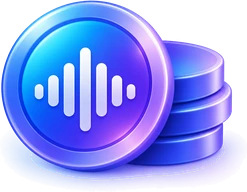
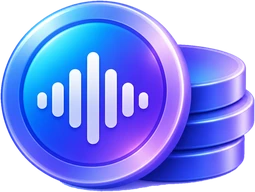
Credits coin: no glow under it on dark pages; easier-to-read dashboard text
The coin image is cut out again without its soft shadow, and the purple
glow drawn under it is gone, so dark pages no longer show a band under the
coin. The dashboard's small text (minutes chip, card hints, labels, editor
footer) is a step bigger, and on phones the character bar and the credits
card each take the full width.

Claude-Session: https://claude.ai/code/session_01DjXPhue42B22oo1RDCfTRS

diff --git a/resources/views/dashboard.blade.php b/resources/views/dashboard.blade.php
@@ -2004,12 +2004,12 @@
         linear-gradient(135deg, color-mix(in oklab, var(--a, #6A45F2) 9%, var(--surface)), var(--surface) 65%);
     }
     .usage-hero-head { display: flex; align-items: center; gap: .7rem; }
-    .usage-hero-coin { font-size: 2.3rem; filter: drop-shadow(0 5px 10px color-mix(in oklab, #6A45F2 25%, transparent)); }
-    .usage-hero-label { display: block; font-size: .85rem; font-weight: 700; color: var(--text); }
-    .usage-hero-plan { display: block; font-size: .78rem; color: var(--muted); }
+    .usage-hero-coin { font-size: 2.3rem; }
+    .usage-hero-label { display: block; font-size: .95rem; font-weight: 700; color: var(--text); }
+    .usage-hero-plan { display: block; font-size: .86rem; color: var(--muted); }
     .usage-hero-value { display: flex; align-items: baseline; flex-wrap: wrap; gap: .55rem; margin: .9rem 0 .7rem; }
     .usage-hero-value strong { font-size: clamp(2rem, 4vw, 2.7rem); line-height: 1; font-weight: 800; letter-spacing: -.02em; font-variant-numeric: tabular-nums; color: var(--text); }
-    .usage-hero-value span { color: var(--muted); font-size: .92rem; }
+    .usage-hero-value span { color: var(--muted); font-size: 1rem; }
     .usage-hero .meter-track { height: 10px; }
     /* Repeats the big number, so it is kept for screen readers only. */
     .usage-hero-caption { position: absolute; width: 1px; height: 1px; padding: 0; margin: -1px; overflow: hidden; clip: rect(0 0 0 0); white-space: nowrap; border: 0; }
@@ -2020,7 +2020,7 @@
       padding: .32rem .7rem; border-radius: 999px;
       background: color-mix(in oklab, var(--surface2) 70%, var(--surface));
       border: 1px solid color-mix(in oklab, var(--line) 80%, transparent);
-      font-size: .78rem; color: var(--text);
+      font-size: .88rem; color: var(--text);
     }
     .usage-chip svg { width: 14px; height: 14px; fill: none; stroke: var(--a, #6A45F2); stroke-width: 2; stroke-linecap: round; }
     .usage-ring {
@@ -2037,7 +2037,7 @@
       box-shadow: inset 0 0 0 1px color-mix(in oklab, var(--line) 70%, transparent);
     }
     .usage-ring-inner b { font-size: 1.55rem; font-weight: 800; font-variant-numeric: tabular-nums; color: var(--text); }
-    .usage-ring-inner span { font-size: .75rem; color: var(--muted); }
+    .usage-ring-inner span { font-size: .82rem; color: var(--muted); }
     .usage-tiles { display: grid; grid-template-columns: repeat(3, minmax(0, 1fr)); gap: .9rem; margin-top: .9rem; }
     .usage-tile {
       display: flex; flex-direction: column; gap: .45rem;
@@ -2046,7 +2046,7 @@
       background: var(--surface);
     }
     .usage-tile-head { display: flex; align-items: center; gap: .55rem; }
-    .usage-tile-head small { font-size: .82rem; font-weight: 600; color: var(--muted); }
+    .usage-tile-head small { font-size: .92rem; font-weight: 600; color: var(--muted); }
     .usage-tile-icon {
       display: inline-grid; place-items: center; width: 30px; height: 30px; border-radius: 9px;
       background: color-mix(in oklab, var(--a, #6A45F2) 12%, var(--surface));
@@ -2056,17 +2056,17 @@
     .usage-tile-icon.gold .credit-icon { font-size: 1.05rem; }
     .usage-tile > b { font-size: 1.65rem; font-weight: 800; line-height: 1.1; font-variant-numeric: tabular-nums; color: var(--text); }
     .usage-tile .meter-track { height: 6px; }
-    .usage-tile-foot { color: var(--muted); font-size: .76rem; line-height: 1.45; }
+    .usage-tile-foot { color: var(--muted); font-size: .87rem; line-height: 1.45; }
     .usage-health {
       display: flex; align-items: center; justify-content: space-between; flex-wrap: wrap; gap: .8rem;
       margin-top: .9rem; padding: .85rem 1.15rem; border-radius: 16px;
       border: 1px solid color-mix(in oklab, var(--line) 85%, transparent);
       background: color-mix(in oklab, var(--surface2) 40%, var(--surface));
     }
-    .usage-health-title { font-size: .85rem; font-weight: 700; color: var(--text); }
+    .usage-health-title { font-size: .95rem; font-weight: 700; color: var(--text); }
     .usage-health-row { display: flex; flex-wrap: wrap; gap: 1.4rem; }
     .usage-health-item { display: inline-flex; align-items: center; gap: .45rem; }
-    .usage-health-item small { color: var(--muted); font-size: .8rem; }
+    .usage-health-item small { color: var(--muted); font-size: .9rem; }
     .usage-health-item b { font-variant-numeric: tabular-nums; color: var(--text); }
     .usage-health .dot { width: 8px; height: 8px; border-radius: 50%; display: inline-block; }
     .usage-health .dot.processing { background: #f59e0b; box-shadow: 0 0 0 3px color-mix(in oklab, #f59e0b 22%, transparent); }
@@ -2074,9 +2074,13 @@
     .usage-health .dot.failed { background: #ef4444; box-shadow: 0 0 0 3px color-mix(in oklab, #ef4444 22%, transparent); }
     @media (max-width: 760px) {
       .usage-hero { grid-template-columns: 1fr; }
-      .usage-ring { justify-self: center; width: 116px; height: 116px; }
-      .usage-ring-inner { width: 92px; height: 92px; }
+      .usage-ring { justify-self: center; width: 104px; height: 104px; }
+      .usage-ring-inner { width: 82px; height: 82px; }
+      .usage-ring-inner b { font-size: 1.35rem; }
       .usage-tiles { grid-template-columns: 1fr; }
+      .usage-health-row { flex-wrap: nowrap; gap: .9rem; }
+      .usage-health-item { gap: .35rem; }
+      .usage-health-item small { font-size: .84rem; }
     }
     /* Text box footer: characters, and the credits left that drop live as the text grows */
     .editor-counters { display: flex; align-items: center; flex-wrap: wrap; gap: 1rem; }
@@ -2089,8 +2093,8 @@
       margin: 0;
       padding: 0;
     }
-    .char-counter-text { font-size: .8rem; color: var(--muted); font-variant-numeric: tabular-nums; white-space: nowrap; }
-    .char-counter-text b { color: var(--text); font-weight: 700; font-size: .92rem; }
+    .char-counter-text { font-size: .88rem; color: var(--muted); font-variant-numeric: tabular-nums; white-space: nowrap; }
+    .char-counter-text b { color: var(--text); font-weight: 700; font-size: 1rem; }
     .char-counter-sep { margin: 0 .2rem; opacity: .6; }
     .char-counter-track { height: 4px; border-radius: 999px; background: color-mix(in oklab, var(--line) 80%, transparent); overflow: hidden; }
     .char-counter-track span { display: block; height: 100%; width: 0; border-radius: inherit; background: linear-gradient(90deg, var(--a, #6A45F2), var(--b, #8B5CF6)); transition: width .2s ease, background .2s ease; }
@@ -2108,10 +2112,14 @@
       transition: border-color .2s ease, background .2s ease;
     }
     html[dir="rtl"] .credit-live { padding: .45rem .55rem .45rem .95rem; }
-    .credit-live .credit-icon { font-size: 1.65rem; margin-block: -.15rem; filter: drop-shadow(0 4px 8px color-mix(in oklab, #6A45F2 25%, transparent)); }
+    .credit-live .credit-icon { font-size: 1.65rem; margin-block: -.15rem; }
     .credit-live-text { display: flex; flex-direction: column; line-height: 1.15; }
-    .credit-live-label { font-size: .7rem; color: var(--muted); letter-spacing: .01em; }
-    .credit-live-value { font-size: 1.05rem; font-weight: 800; color: var(--text); font-variant-numeric: tabular-nums; }
+    .credit-live-label { font-size: .78rem; color: var(--muted); letter-spacing: .01em; }
+    .credit-live-value { font-size: 1.12rem; font-weight: 800; color: var(--text); font-variant-numeric: tabular-nums; }
+    @media (max-width: 560px) {
+      .editor-counters { gap: .75rem; }
+      .vs-editor-foot .char-counter, .credit-live { flex: 1 1 100%; }
+    }
     .credit-live.is-spending { border-color: color-mix(in oklab, var(--a, #6A45F2) 40%, var(--line)); }
     .credit-live.is-short { border-color: color-mix(in oklab, var(--danger, #ef4444) 55%, var(--line)); background: color-mix(in oklab, var(--danger, #ef4444) 8%, var(--surface)); }
     .credit-live.is-short .credit-live-value { color: var(--danger, #ef4444); }

diff --git a/resources/views/pricing.blade.php b/resources/views/pricing.blade.php
@@ -283,7 +283,7 @@
       min-width: 0;
     }
     .plan-quota-amount { display: inline-flex; align-items: baseline; flex-wrap: wrap; column-gap: .45rem; row-gap: 0; min-width: 0; }
-    .plan-quota-coin { font-size: 2.15rem; margin: 0; filter: drop-shadow(0 6px 12px color-mix(in oklab, #6A45F2 26%, transparent)); }
+    .plan-quota-coin { font-size: 2.15rem; margin: 0; }
     .plan-quota-number { font-size: 1.4rem; font-weight: 800; line-height: 1; color: var(--text); font-variant-numeric: tabular-nums; letter-spacing: -.01em; }
     .plan-quota-unit { font-size: .95rem; font-weight: 600; color: color-mix(in oklab, var(--muted) 85%, var(--text)); white-space: nowrap; }
 

diff --git a/resources/views/components/credit-icon.blade.php b/resources/views/components/credit-icon.blade.php
@@ -3,5 +3,5 @@
 <img {{ $attributes->merge(['class' => 'credit-icon']) }}
      src="{{ \App\Support\VersionedAsset::url('images/credit-coin.webp') }}"
      alt="{{ __('ui.pricing.credits_icon_label') }}"
-     width="247" height="192" decoding="async"
+     width="255" height="192" decoding="async"
      style="display:inline-block;flex:none;height:1em;width:auto;vertical-align:-0.18em;{{ app()->getLocale() === 'ar' ? '' : 'transform:scaleX(-1);' }}">
